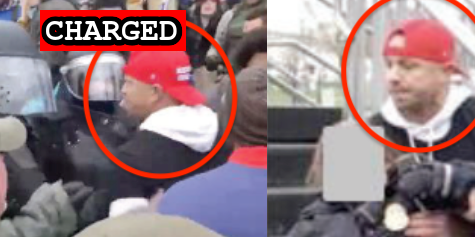
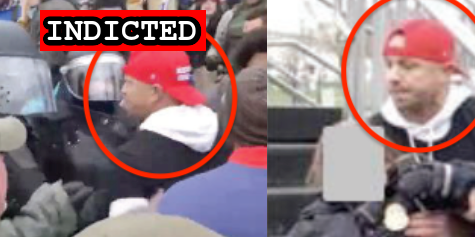
Samsel indictment

Changed region(s): [[0.0884, 0.0295, 0.4421, 0.2363]]

diff --git a/docs/_suspects/ryan-samsel.md b/docs/_suspects/ryan-samsel.md
@@ -3,13 +3,13 @@ name: Ryan Samsel
 lastName: Samsel
 aka:
 residence: Pennsylvania&nbsp;
-status: Charged
+status: Indicted
 date: 2021-01-30
 charged: 2021-01-30
-indicted:
-convicted: 
-sentenced: 
-dismissed: 
+indicted: 2021-08-25
+convicted:
+sentenced:
+dismissed:
 deceased:
 age: 37
 occupation:
@@ -30,6 +30,8 @@ layout: suspect
 published: true
 caseNumber: 1:21-mj-188
 ---
+
 - [News Report](https://www.buckscountycouriertimes.com/story/news/2021/02/01/bristol-man-charged-assaulting-officer-during-insurrection/4338235001/)
 - [Complaint](https://www.justice.gov/file/1362781/download)
 - [Statement of Facts](https://www.justice.gov/opa/page/file/1362781/download)
+- [Indictment](https://www.documentcloud.org/documents/21049602-210826-samsel-indictment)

diff --git a/docs/_suspects/jonathan-sanders.md b/docs/_suspects/jonathan-sanders.md
@@ -10,6 +10,7 @@ indicted:
 convicted: 2021-08-26
 sentenced:
 dismissed:
+deceased:
 age:
 occupation:
 affiliations:
@@ -27,7 +28,10 @@ description: Click for latest case details. Suspects innocent until proven guilt
 author: seditiontrack
 layout: suspect
 published: true
+caseNumber:
+videos:
+charges:
 ---
-
 - [News Story](https://www.wthr.com/article/news/crime/man-arrested-in-vincennes-in-connection-to-capitol-riot-indiana-charge-jonathan-ace-sanders/531-80108d8a-080c-4dba-8471-e5d2ffa17ef2)
 - [Complaint](https://storage.courtlistener.com/recap/gov.uscourts.dcd.231183/gov.uscourts.dcd.231183.6.0.pdf)
+- [Statement of Facts](https://extremism.gwu.edu/sites/g/files/zaxdzs2191/f/Jonathan%20Ace%20Sanders%20Statement%20of%20Facts.pdf)
